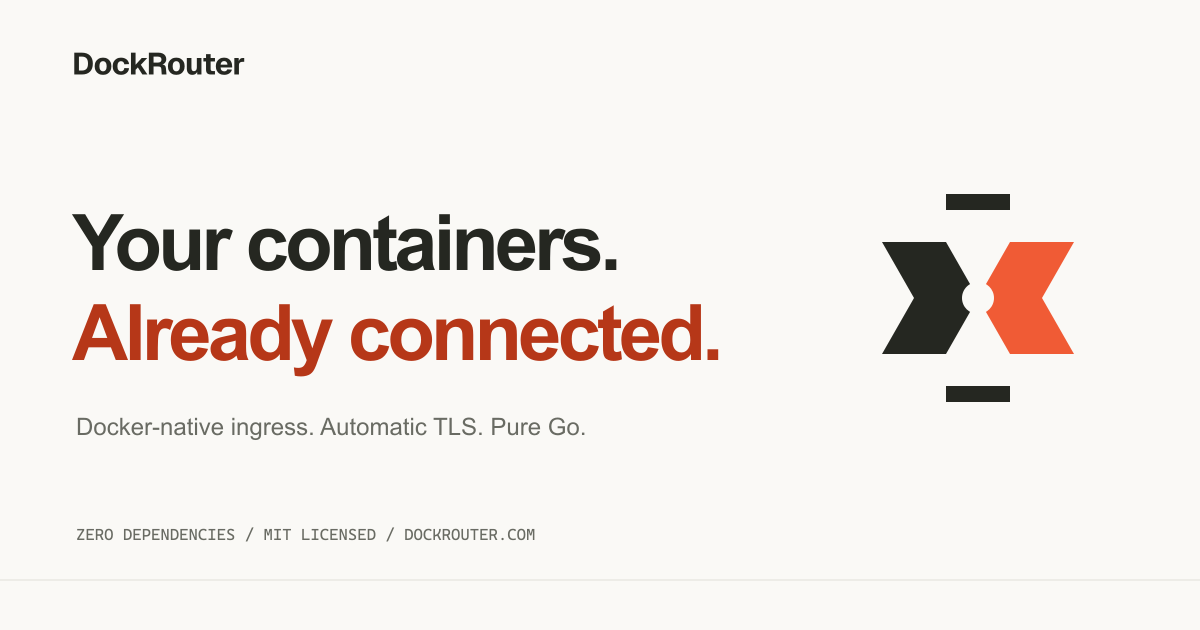
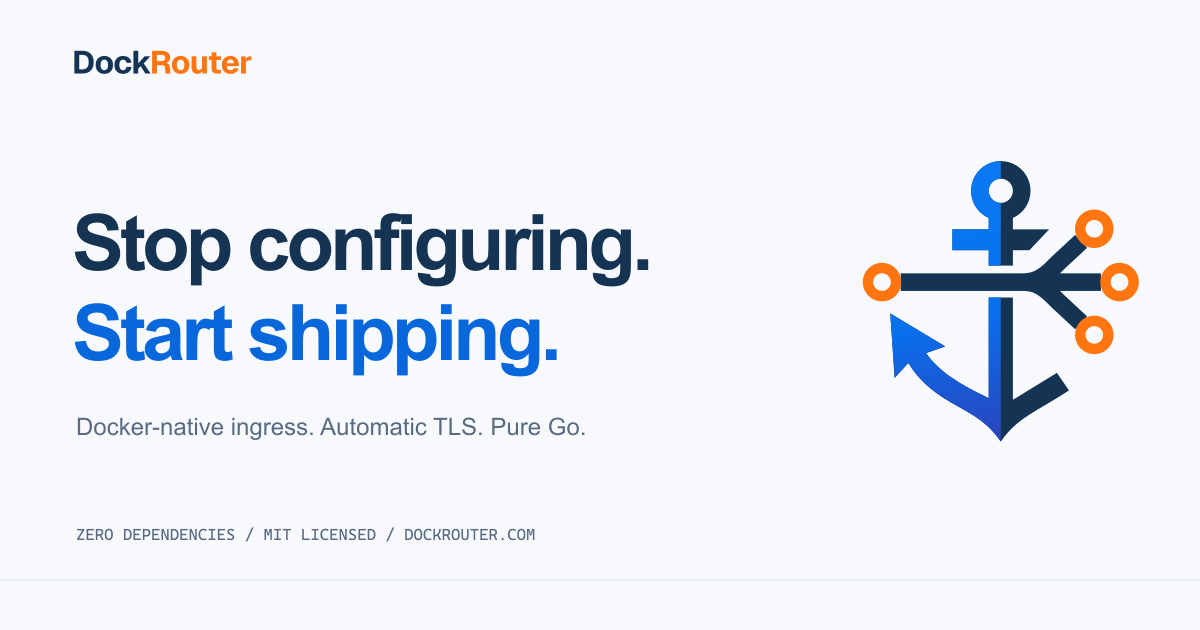
Restore DockRouter anchor identity from owner reference

diff --git a/src/components/logo.tsx b/src/components/logo.tsx
@@ -1,21 +1,70 @@
+"use client";
+import { useId } from "react";
+import { anchorGeometry as shape } from "@/lib/brand-geometry";
 import { wordmark } from "@/lib/wordmark";
+export function RouterGlyph() {
+  const id = useId().replace(/[^a-zA-Z0-9_-]/g, "");
+  return (
+    <g fill="none" data-brand="dockrouter-anchor">
+      <defs>
+        <linearGradient
+          id={`${id}-blue`}
+          x1="160"
+          y1="0"
+          x2="256"
+          y2="512"
+          gradientUnits="userSpaceOnUse"
+        >
+          <stop stopColor="#0879f5" />
+          <stop offset=".55" stopColor="#0870ed" />
+          <stop offset="1" stopColor="#2b43bd" />
+        </linearGradient>
+        <clipPath id={`${id}-left`}>
+          <path d="M0 0h256v512H0z" />
+        </clipPath>
+      </defs>
+      <g fill="var(--brand-navy)" fillRule="evenodd">
+        {[shape.ring, shape.cross, shape.anchor].map((d) => (
+          <path key={d} d={d} />
+        ))}
+      </g>
+      <g
+        fill={`url(#${id}-blue)`}
+        fillRule="evenodd"
+        clipPath={`url(#${id}-left)`}
+      >
+        {[shape.ring, shape.cross, shape.anchor].map((d) => (
+          <path key={d} d={d} />
+        ))}
+      </g>
+      <path
+        d={shape.routes}
+        stroke="var(--brand-navy)"
+        strokeWidth="32"
+        strokeLinejoin="round"
+      />
+      {shape.nodes.map((p) => (
+        <path
+          key={p.y + p.x}
+          fill="var(--brand-orange)"
+          fillRule="evenodd"
+          d={`M${p.x + 35} ${p.y}a35 35 0 1 1-70 0 35 35 0 0 1 70 0ZM${p.x + 16} ${p.y}a16 16 0 1 0-32 0 16 16 0 0 0 32 0Z`}
+        />
+      ))}
+    </g>
+  );
+}
 export function RouterMark({ className = "" }: { className?: string }) {
   return (
     <svg
       className={`router-mark ${className}`}
-      viewBox="0 0 64 64"
+      viewBox="0 0 512 512"
+      width="512"
+      height="512"
       fill="none"
       aria-hidden="true"
     >
-      <path d="M8 18h16l8 14-8 14H8l8-14z" fill="currentColor" />
-      <path d="M56 18H40l-8 14 8 14h16l-8-14z" fill="var(--amber, #f05b35)" />
-      <path
-        d="M24 8h16M24 56h16"
-        stroke="currentColor"
-        strokeWidth="4"
-        strokeLinecap="square"
-      />
-      <circle cx="32" cy="32" r="4" fill="var(--paper, #faf9f6)" />
+      <RouterGlyph />
     </svg>
   );
 }
@@ -29,10 +78,11 @@ export function Logo() {
         fill="currentColor"
         aria-hidden="true"
       >
-        {wordmark.paths.map((p) => (
+        {wordmark.paths.map((p, i) => (
           <path
             key={p.x}
             d={p.d}
+            fill={i < 4 ? "var(--brand-navy)" : "var(--brand-orange)"}
             transform={`translate(${p.x} ${51 - p.y}) scale(${wordmark.scale} ${-wordmark.scale})`}
           />
         ))}

diff --git a/src/app/dockrouter.css b/src/app/dockrouter.css
@@ -1,16 +1,18 @@
 :root {
-  --paper: light-dark(oklch(0.98 0.005 80), oklch(0.17 0.006 60));
-  --surface: light-dark(#fff, #202120);
-  --surface-soft: light-dark(#f0efeb, #1c1d1c);
-  --surface-hover: light-dark(#e9e7e1, #292b28);
-  --ink: light-dark(#252721, #efeee8);
-  --muted: light-dark(#696b63, #acafa4);
-  --line: light-dark(#dfdfd7, #363932);
-  --amber: oklch(0.66 0.19 36);
-  --accent-ink: light-dark(#b63718, #ff9b77);
+  --paper: light-dark(#f7f9fd, #0c1523);
+  --surface: light-dark(#fff, #142137);
+  --surface-soft: light-dark(#eef3fa, #101c2e);
+  --surface-hover: light-dark(#e5edf8, #1a2c46);
+  --ink: light-dark(#153454, #e9f1fc);
+  --muted: light-dark(#596b82, #a6b8d0);
+  --line: light-dark(#dce4ef, #2c3d56);
+  --amber: #ff7510;
+  --accent-ink: light-dark(#0868db, #79b6ff);
+  --brand-navy: light-dark(#153454, #c4d7f0);
+  --brand-orange: #ff7510;
   --green: light-dark(#427249, #96bd88);
-  --diagram-line: light-dark(#c1c4b7, #555b4c);
-  --diagram-side: light-dark(#e9eade, #2b3027);
+  --diagram-line: light-dark(#b8c9df, #3a5273);
+  --diagram-side: light-dark(#e0eaf8, #192e4b);
 }
 body {
   background-image: none;
@@ -48,9 +50,9 @@ body {
   padding-inline: 1.35rem;
 }
 .button.primary {
-  background: var(--ink);
-  color: var(--paper);
-  border-color: var(--ink);
+  background: #0868db;
+  color: #fff;
+  border-color: #0868db;
   box-shadow: 0 3px 0 color-mix(in srgb, var(--ink) 12%, transparent);
 }
 .button.primary:hover {
@@ -819,7 +821,7 @@ h2 {
   font-size: 0.9rem;
 }
 .dock-cta .ink {
-  background: #f05b35;
+  background: #ff7510;
   color: #251c16;
 }
 .dock-cta .cta-github {
@@ -872,7 +874,7 @@ h2 {
   transition: transform 0.4s;
 }
 .theme-preview-content i:first-child {
-  background: #f05b35;
+  background: #ff7510;
 }
 .theme-choice-check {
   background: var(--accent-ink);
@@ -934,7 +936,7 @@ h2 {
   border-color: var(--line);
 }
 ::selection {
-  background: #f05b3540;
+  background: #ff751040;
 }
 p > a:not(.button) {
   text-decoration: underline;

diff --git a/src/app/brand/page.tsx b/src/app/brand/page.tsx
@@ -14,8 +14,9 @@ export default function Brand() {
         </span>
         <h1>Designed to connect.</h1>
         <p>
-          Two directions. One connection. An original vector identity for
-          DockRouter, sharp from the smallest browser tab to a 4K screen.
+          The DockRouter anchor, routing branches and orange connection nodes.
+          Faithfully redrawn in SVG from the supplied brand reference, with
+          outlined lettering that stays sharp on a 4K screen.
         </p>
       </header>
       <div className="brand-grid">
@@ -31,7 +32,7 @@ export default function Brand() {
               ) : i === 1 ? (
                 <RouterMark />
               ) : (
-                <picture>
+                <picture style={{ background: "#fff" }}>
                   <img
                     src={href}
                     width="400"
@@ -51,16 +52,16 @@ export default function Brand() {
         ))}
       </div>
       <section className="doc-section">
-        <h2>A little warmth. A clear signal.</h2>
+        <h2>Anchored in blue. Connected in orange.</h2>
         <p>
-          Signal orange marks the connection. Graphite gives the identity its
-          structure. Warm paper leaves room to breathe.
+          Blue anchors the mark. Navy defines the routes and Dock lettering.
+          Orange highlights each connection and the Router wordmark.
         </p>
         <div className="brand-colors">
           {[
-            ["Signal orange", "#F05B35", "#251c16"],
-            ["Graphite", "#252721", "#fff"],
-            ["Warm paper", "#FAF9F6", "#252721"],
+            ["Anchor blue", "#0879F5", "#03101c"],
+            ["Route navy", "#153454", "#fff"],
+            ["Connection orange", "#FF7510", "#251c16"],
           ].map(([name, color, ink]) => (
             <div
               key={name}

diff --git a/src/lib/brand-geometry.ts b/src/lib/brand-geometry.ts
@@ -1,0 +1,20 @@
+// Vector reconstruction of the DockRouter reference supplied by the owner.
+// Shared by the website, downloadable SVGs, favicon and social preview.
+export const anchorGeometry = {
+  ring: "M310 56a54 54 0 1 1-108 0 54 54 0 0 1 108 0ZM278 56a22 22 0 1 0-44 0 22 22 0 0 0 44 0Z",
+  cross: "M234 102h44v24h66l-36 38h-30v28h-44v-28h-66v-38h66Z",
+  anchor:
+    "M234 250h44v186l80-49 22 32c-58 38-94 49-124 93-30-44-66-55-105-80-26-17-47-36-63-63l-25 27-8-117 100 60-35 12c24 34 61 57 114 82Z",
+  routes:
+    "M74 222h364M296 222c30 0 44-15 64-35l42-39M296 222c30 0 44 15 64 35l42 39",
+  nodes: [
+    { x: 40, y: 222 },
+    { x: 426, y: 125 },
+    { x: 472, y: 222 },
+    { x: 426, y: 318 },
+  ],
+} as const;
+export function routerSymbolSvg(id: string, navy = "#153454") {
+  const g = anchorGeometry;
+  return `<defs><linearGradient id="${id}-blue" x1="160" y1="0" x2="256" y2="512" gradientUnits="userSpaceOnUse"><stop stop-color="#0879f5"/><stop offset=".55" stop-color="#0870ed"/><stop offset="1" stop-color="#2b43bd"/></linearGradient><clipPath id="${id}-left"><path d="M0 0h256v512H0z"/></clipPath></defs><g fill="${navy}" fill-rule="evenodd"><path d="${g.ring}"/><path d="${g.cross}"/><path d="${g.anchor}"/></g><g fill="url(#${id}-blue)" fill-rule="evenodd" clip-path="url(#${id}-left)"><path d="${g.ring}"/><path d="${g.cross}"/><path d="${g.anchor}"/></g><path d="${g.routes}" stroke="${navy}" stroke-width="32" stroke-linejoin="round"/>${g.nodes.map((p) => `<path fill="#ff7510" fill-rule="evenodd" d="M${p.x + 35} ${p.y}a35 35 0 1 1-70 0 35 35 0 0 1 70 0ZM${p.x + 16} ${p.y}a16 16 0 1 0-32 0 16 16 0 0 0 32 0Z"/>`).join("")}`;
+}

diff --git a/src/app/layout.tsx b/src/app/layout.tsx
@@ -11,12 +11,12 @@ import "./dockrouter.css";
 export const metadata: Metadata = {
   metadataBase: new URL(SITE),
   title: {
-    default: "DockRouter — Your containers. Already connected.",
+    default: "DockRouter — Stop Configuring. Start Shipping.",
     template: "%s · DockRouter",
   },
   description,
   openGraph: {
-    title: "DockRouter — Your containers. Already connected.",
+    title: "DockRouter — Stop Configuring. Start Shipping.",
     description,
     url: SITE,
     siteName: "DockRouter",
@@ -26,13 +26,13 @@ export const metadata: Metadata = {
         url: "/og.png",
         width: 1200,
         height: 630,
-        alt: "DockRouter — Your containers. Already connected.",
+        alt: "DockRouter — Stop Configuring. Start Shipping.",
       },
     ],
   },
   twitter: {
     card: "summary_large_image",
-    title: "DockRouter — Your containers. Already connected.",
+    title: "DockRouter — Stop Configuring. Start Shipping.",
     description,
     images: ["/og.png"],
   },
@@ -42,8 +42,8 @@ export const viewport: Viewport = {
   width: "device-width",
   initialScale: 1,
   themeColor: [
-    { media: "(prefers-color-scheme: light)", color: "#fffdf8" },
-    { media: "(prefers-color-scheme: dark)", color: "#111310" },
+    { media: "(prefers-color-scheme: light)", color: "#f7f9fd" },
+    { media: "(prefers-color-scheme: dark)", color: "#0c1523" },
   ],
 };
 const themeScript =

diff --git a/src/components/router-art.tsx b/src/components/router-art.tsx
@@ -1,4 +1,4 @@
-import { RouterMark } from "./logo";
+import { RouterGlyph, RouterMark } from "./logo";
 export function RouterArt() {
   return (
     <figure
@@ -96,11 +96,8 @@ export function RouterArt() {
           <path d="m232 277 85 49M232 291l85 49" stroke="var(--diagram-line)" />
           <path d="m366 326 76-44" stroke="var(--amber)" strokeWidth="3" />
           <circle cx="447" cy="309" r="3" fill="var(--green)" />
-          <g transform="translate(297 187) scale(1.35 .78)">
-            <path d="M8 18h16l8 14-8 14H8l8-14z" fill="var(--ink)" />
-            <path d="M56 18H40l-8 14 8 14h16l-8-14z" fill="var(--amber)" />
-            <path d="M24 8h16M24 56h16" stroke="var(--ink)" strokeWidth="4" />
-            <circle cx="32" cy="32" r="4" fill="var(--surface)" />
+          <g transform="translate(297 187) scale(.16875 .0975)">
+            <RouterGlyph />
           </g>
         </g>
         <g fontFamily="monospace" fontSize="10" fill="var(--muted)">

diff --git a/tests/site.spec.ts b/tests/site.spec.ts
@@ -162,6 +162,13 @@ for (const width of [320, 360, 390, 768, 1440, 3840]) {
       ).toBe(true);
       if (path === "/") {
         await expect(page.locator(".routing-drawing")).toBeVisible();
+        const drawingBounds = await page
+          .locator(".routing-drawing")
+          .boundingBox();
+        const hubBounds = await page.locator(".router-float").boundingBox();
+        expect(hubBounds?.width).toBeLessThanOrEqual(
+          (drawingBounds?.width ?? 0) * 0.5,
+        );
         expect(
           await page
             .locator(".routing-drawing")

diff --git a/src/app/page.tsx b/src/app/page.tsx
@@ -86,9 +86,9 @@ export default function Home() {
           </a>
           <div className="hero-kicker">THE DOCKER-NATIVE INGRESS ROUTER</div>
           <h1>
-            Your containers.
+            Stop configuring.
             <br />
-            <span>Already connected.</span>
+            <span>Start shipping.</span>
           </h1>
           <p className="dock-lead">
             You build the application.

diff --git a/README.md b/README.md
@@ -32,7 +32,7 @@ Push to main. `.github/workflows/deploy.yml` runs lint, static export, typecheck
 
 - Product information is based on the upstream [README](https://github.com/DockRouter/dockrouter), its Go module (Go 1.22), and v1.2.0 release assets, checked on 2026-10-18. Update `src/lib/site.ts` and verify the release matrix when changing versions.
 - Nine documentation topics cover installation, routing, TLS, balancing, security, observability, architecture and configuration. The route explorer is a labeled local simulation. It does not contact a Docker host or run an ingress router.
-- Original DockRouter SVG mark, outlined wordmark, favicon, stacked variants and social image live in `public/`. `npm run brand` regenerates them with Fontkit and Sharp. The outlined wordmark uses OFL-licensed Geist and needs no installed font when downloaded.
+- DockRouter SVG mark redrawn from the owner-supplied anchor and routing reference, outlined wordmark, favicon, stacked variants and social image live in `public/`. `npm run brand` regenerates them with Fontkit and Sharp. The outlined wordmark uses OFL-licensed Geist and needs no installed font when downloaded.
 - The website foundation was adapted from the MIT-licensed WireRift website. The appearance picker and animated OXOGNET area were adapted from the MIT-licensed CobaltDB website as requested. Copyright notices are retained in `public/licenses/`.
 - Geist and Geist Mono are bundled locally. Lucide provides interface icons. Third-party license notices are included in `public/licenses/`.
 

diff --git a/VALIDATION.md b/VALIDATION.md
@@ -13,3 +13,9 @@ The first browser run found contrast failures on the TLS indicator and orange CT
 Source facts: upstream README, go.mod and GitHub v1.2.0 release asset names. No invented traffic statistics, customers, benchmark numbers or testimonials are used.
 
 Final local result: 18/18 browser tests passed, including automated WCAG AA on the home page in both themes and on documentation, downloads, brand and release pages. No runtime errors or page overflow were observed from 320px through 3840px.
+
+## Brand correction
+
+The owner-supplied DockRouter anchor/routing reference replaces the temporary mark. Shared vector geometry drives the website symbol, routing illustration, downloadable light/dark and stacked SVGs, favicon and social image. The wordmark uses navy Dock and orange Router; the hero uses the supplied Stop Configuring / Start Shipping slogan.
+
+A rendered diagram containment assertion reproduced an oversized nested SVG (738.77px hub versus a 324.76px limit at 1440px). The hub now embeds the shared glyph directly in SVG coordinates; the same assertion passes across all six responsive sizes. Final local lint, build, typecheck and all 18 browser checks pass after the brand update.
